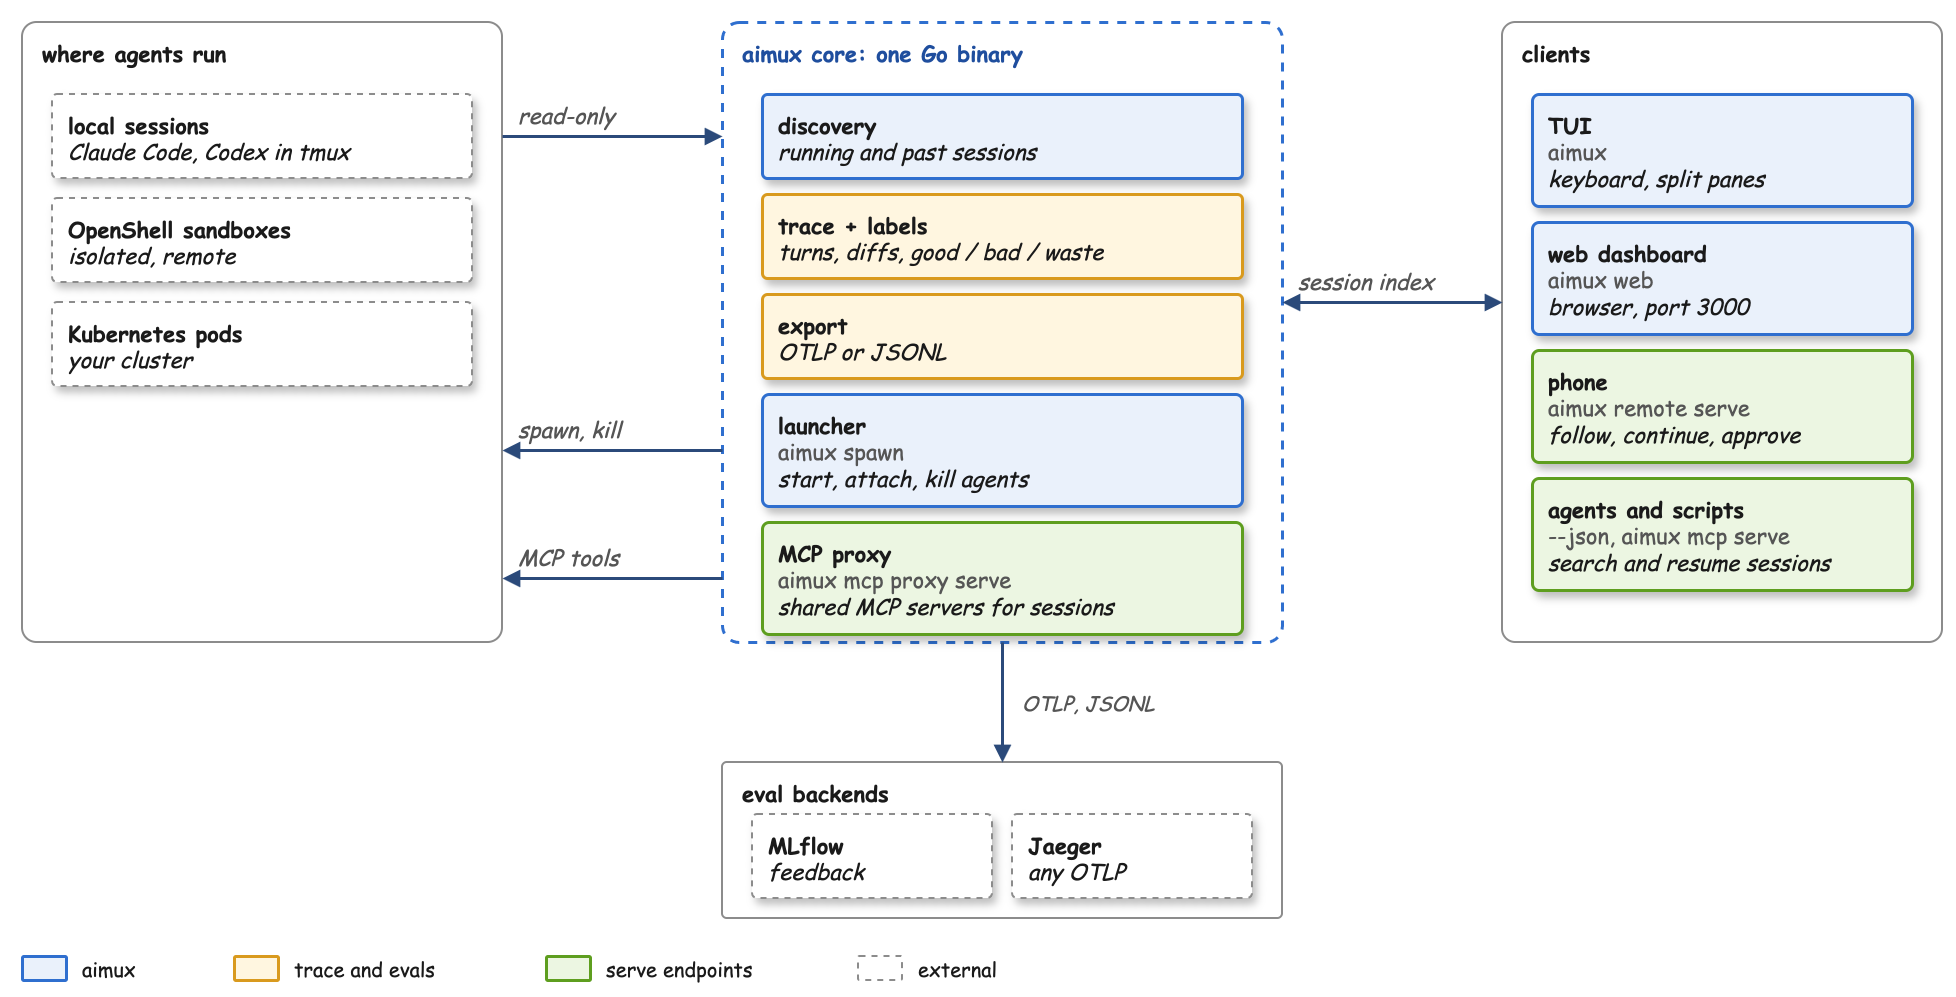
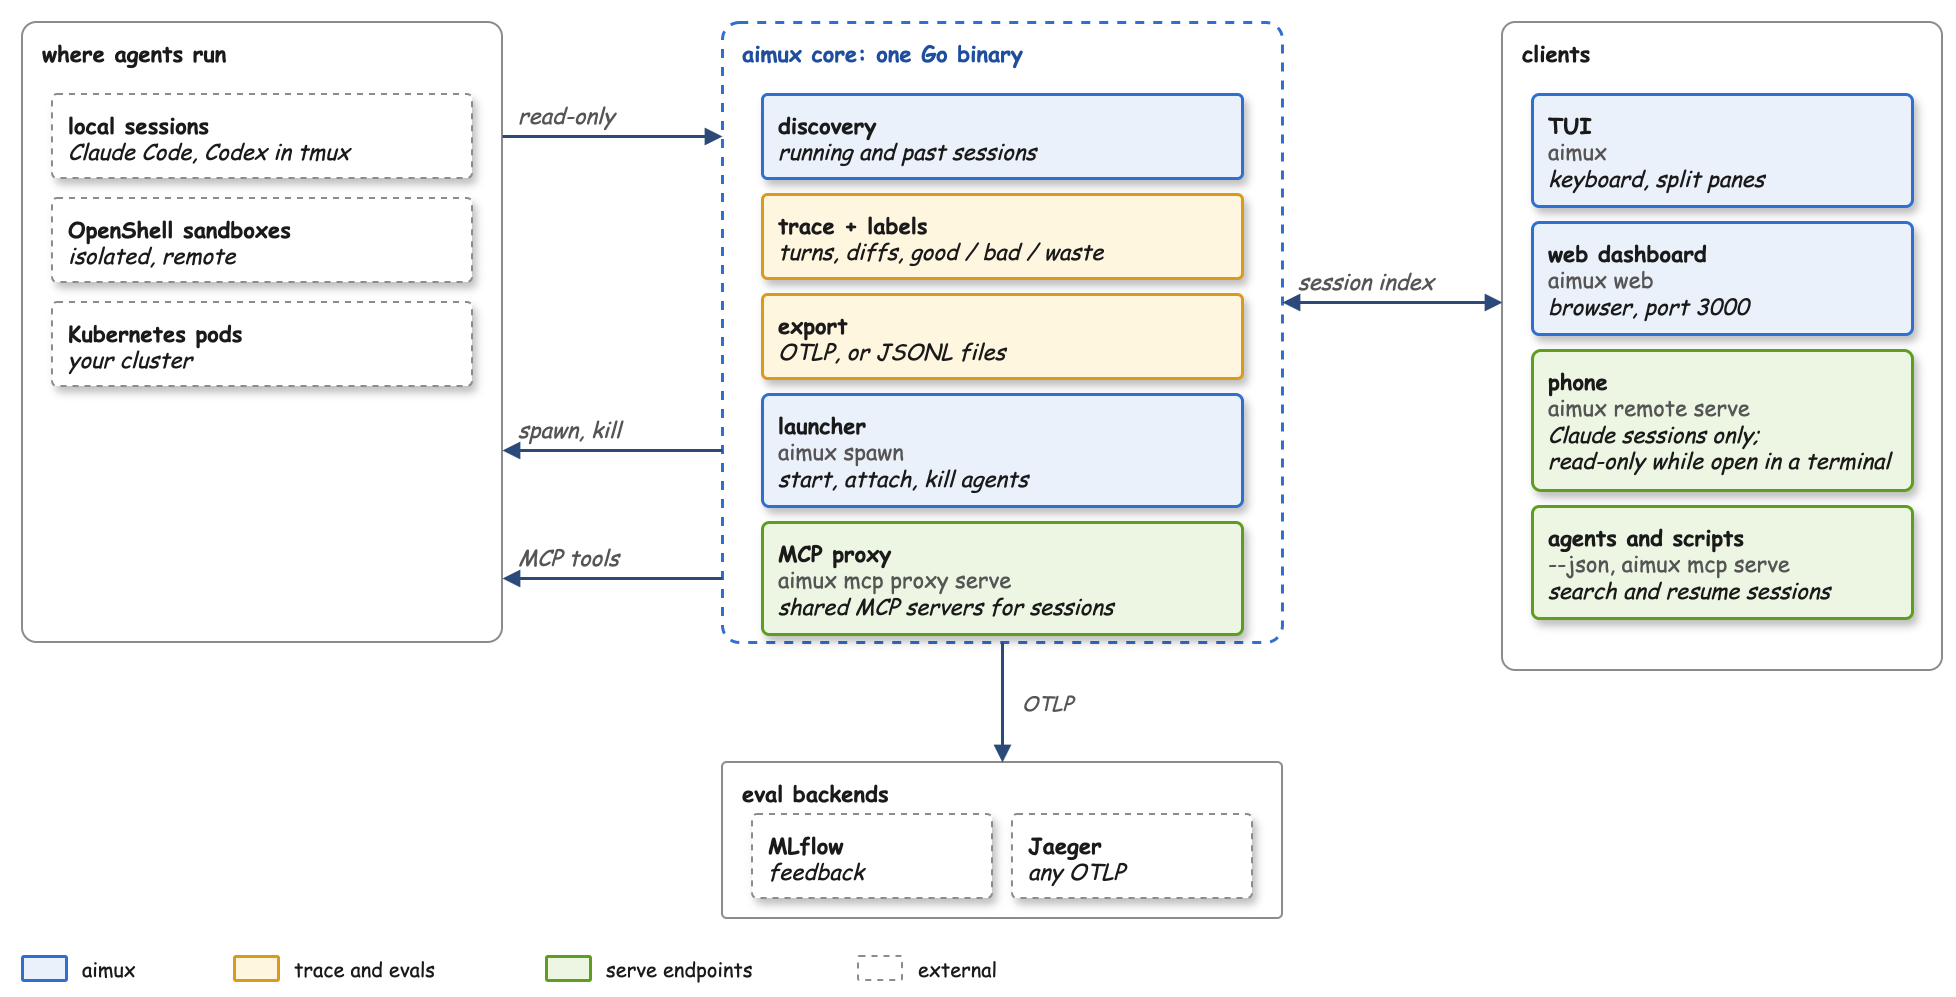
docs: address PR review (remote scope, chat scope, search example, focus, export targets)
- README: phone access is Claude-only and read-only for sessions open in
  a terminal; aimux chat only continues sessions not open in a terminal;
  search example passes a query and --all
- tui-keybindings: resumed and OpenShell sessions open with focus on the
  session pane; press Tab before trace keys
- diagram: JSONL export writes files, only OTLP goes to MLflow/Jaeger;
  phone card scoped to Claude sessions
- record.sh: wait for the dashboard to list the demo agents instead of a
  fixed sleep (documented in docs/demo/README.md)

Changed region(s): [[0.7797, 0.4353, 0.998, 0.653], [0.4366, 0.342, 0.5302, 0.3731], [0.5613, 0.6841, 0.5925, 0.7151]]

diff --git a/README.md b/README.md
@@ -56,7 +56,7 @@ aimux web      # browser UI at localhost:3000
 - **See every agent at once.** Running and past Claude Code and Codex sessions in one list, with live status, CPU, tokens and cost, and search across all of them ("which agent edited auth.go?").
 - **Know what each agent actually did.** A turn-by-turn trace of prompts, tool calls and diffs, with a PR-style review panel. [Tracing →](https://aimux.ai/guides/tracing/)
 - **Turn real runs into evals.** Label turns GOOD, BAD or WASTE and export them as MLflow feedback, to any OTLP backend, or as JSONL. [MLflow →](https://aimux.ai/guides/mlflow-integration/)
-- **Run and reach agents anywhere.** Launch them locally, in OpenShell sandboxes or on Kubernetes, then follow and approve them from your phone. [Remote sandboxes →](https://aimux.ai/guides/remote-sandboxes/)
+- **Run and reach agents anywhere.** Launch them locally, in OpenShell sandboxes or on Kubernetes. From your phone, follow your Claude sessions, continue idle ones and answer approvals. [Remote sandboxes →](https://aimux.ai/guides/remote-sandboxes/)
 
 ## What's inside
 
@@ -68,7 +68,7 @@ aimux web      # browser UI at localhost:3000
 | Evaluate | GOOD / BAD / WASTE labels with notes; export to MLflow, Jaeger or any OTLP backend, or JSONL | [MLflow](https://aimux.ai/guides/mlflow-integration/) |
 | Launch | Six-axis launcher, saved profiles, quick-launch directories, launches from Google Tasks, continue an idle session with `aimux chat` | [Launch modes](https://aimux.ai/guides/launch-modes/), [Tasks](https://aimux.ai/guides/tasks/), [Chat](https://aimux.ai/guides/chat/) |
 | Run remotely | OpenShell sandboxes with terminal, traces and kill; agents on Kubernetes pods | [Remote sandboxes](https://aimux.ai/guides/remote-sandboxes/), [Kubernetes](https://aimux.ai/advanced/k8s-quickstart/) |
-| Reach | `aimux remote serve`: follow sessions, continue idle ones and answer approvals from your phone, over tailscale | [Remote access](https://aimux.ai/guides/remote-access/) |
+| Reach | `aimux remote serve`: follow Claude sessions from your phone over tailscale, continue idle ones and answer approvals; sessions open in a terminal on the Mac are read-only | [Remote access](https://aimux.ai/guides/remote-access/) |
 | Share MCP | `aimux mcp proxy serve`: one shared endpoint for your stdio MCP servers, each started on first call and stopped when idle; `aimux mcp serve`: session search and resume tools for agents | [MCP proxy](https://aimux.ai/guides/mcp-proxy/) |
 | Interfaces | Keyboard TUI with split panes; web dashboard with cards, filters and dark/light themes; desktop and terminal-bell notifications | [TUI keys](https://aimux.ai/guides/tui-keybindings/), [Notifications](https://aimux.ai/guides/notifications/) |
 | Extend | Plugin tabs, new providers, `--json` on every listing command, `aimux agent-context` for the full CLI contract | [Plugins](https://aimux.ai/guides/plugins/), [Agent usage](https://aimux.ai/guides/agent-usage/), [Add a provider](https://aimux.ai/advanced/adding-a-provider/) |
@@ -92,13 +92,13 @@ Use the Claude Code or Codex built-in history instead if you run one agent at a 
 
 | Task | Command |
 |---|---|
-| Search past sessions | `aimux sessions --list --json --limit 5` |
+| Search past sessions in all projects | `aimux sessions "auth.go" --all --list --json --limit 5` |
 | Start an agent and wait for it | `aimux spawn claude --dir ./proj --wait --json` |
 | Resume a past session | `aimux resume <session-id>` |
 | Jump to a running agent's iTerm2 pane | `aimux jump <session-id or pid>` |
-| Continue an idle Claude session | `aimux chat <session-id> "next step?"` |
+| Continue a Claude session that is not open in a terminal | `aimux chat <session-id> "next step?"` |
 | Export a trace | `aimux export <session-id>` |
-| Reach your sessions from your phone | `aimux remote serve` (via tailscale serve) |
+| Follow Claude sessions from your phone | `aimux remote serve` (via tailscale serve) |
 | Share MCP servers across sessions | `aimux mcp proxy refresh`, then `aimux mcp proxy serve` |
 
 <details>

diff --git a/docs/demo/README.md b/docs/demo/README.md
@@ -7,7 +7,7 @@ Records `assets/demo.gif` and `assets/web-dashboard.png` from seeded data in a c
 SKIP_WEB=1 ./docs/demo/record.sh   # GIF only
 ```
 
-Host needs: podman or docker, Go, ffmpeg, pnpm (builds the embedded web UI on a fresh checkout via `make web-build`). The web screenshot also needs Node (the script installs Playwright and its Chromium) and Python 3 with Pillow (`python3 -m pip install pillow`).
+Host needs: podman or docker, Go, ffmpeg, pnpm (builds the embedded web UI on a fresh checkout via `make web-build`). The web screenshot also needs curl, Node (the script installs Playwright and its Chromium) and Python 3 with Pillow (`python3 -m pip install pillow`). Before the screenshot, the script waits up to 60 s for the dashboard to list the 4 demo agents and exits 1 if it doesn't.
 
 Smoke test (exit 1 unless discovery finds the 4 seeded agents with the expected statuses):
 
